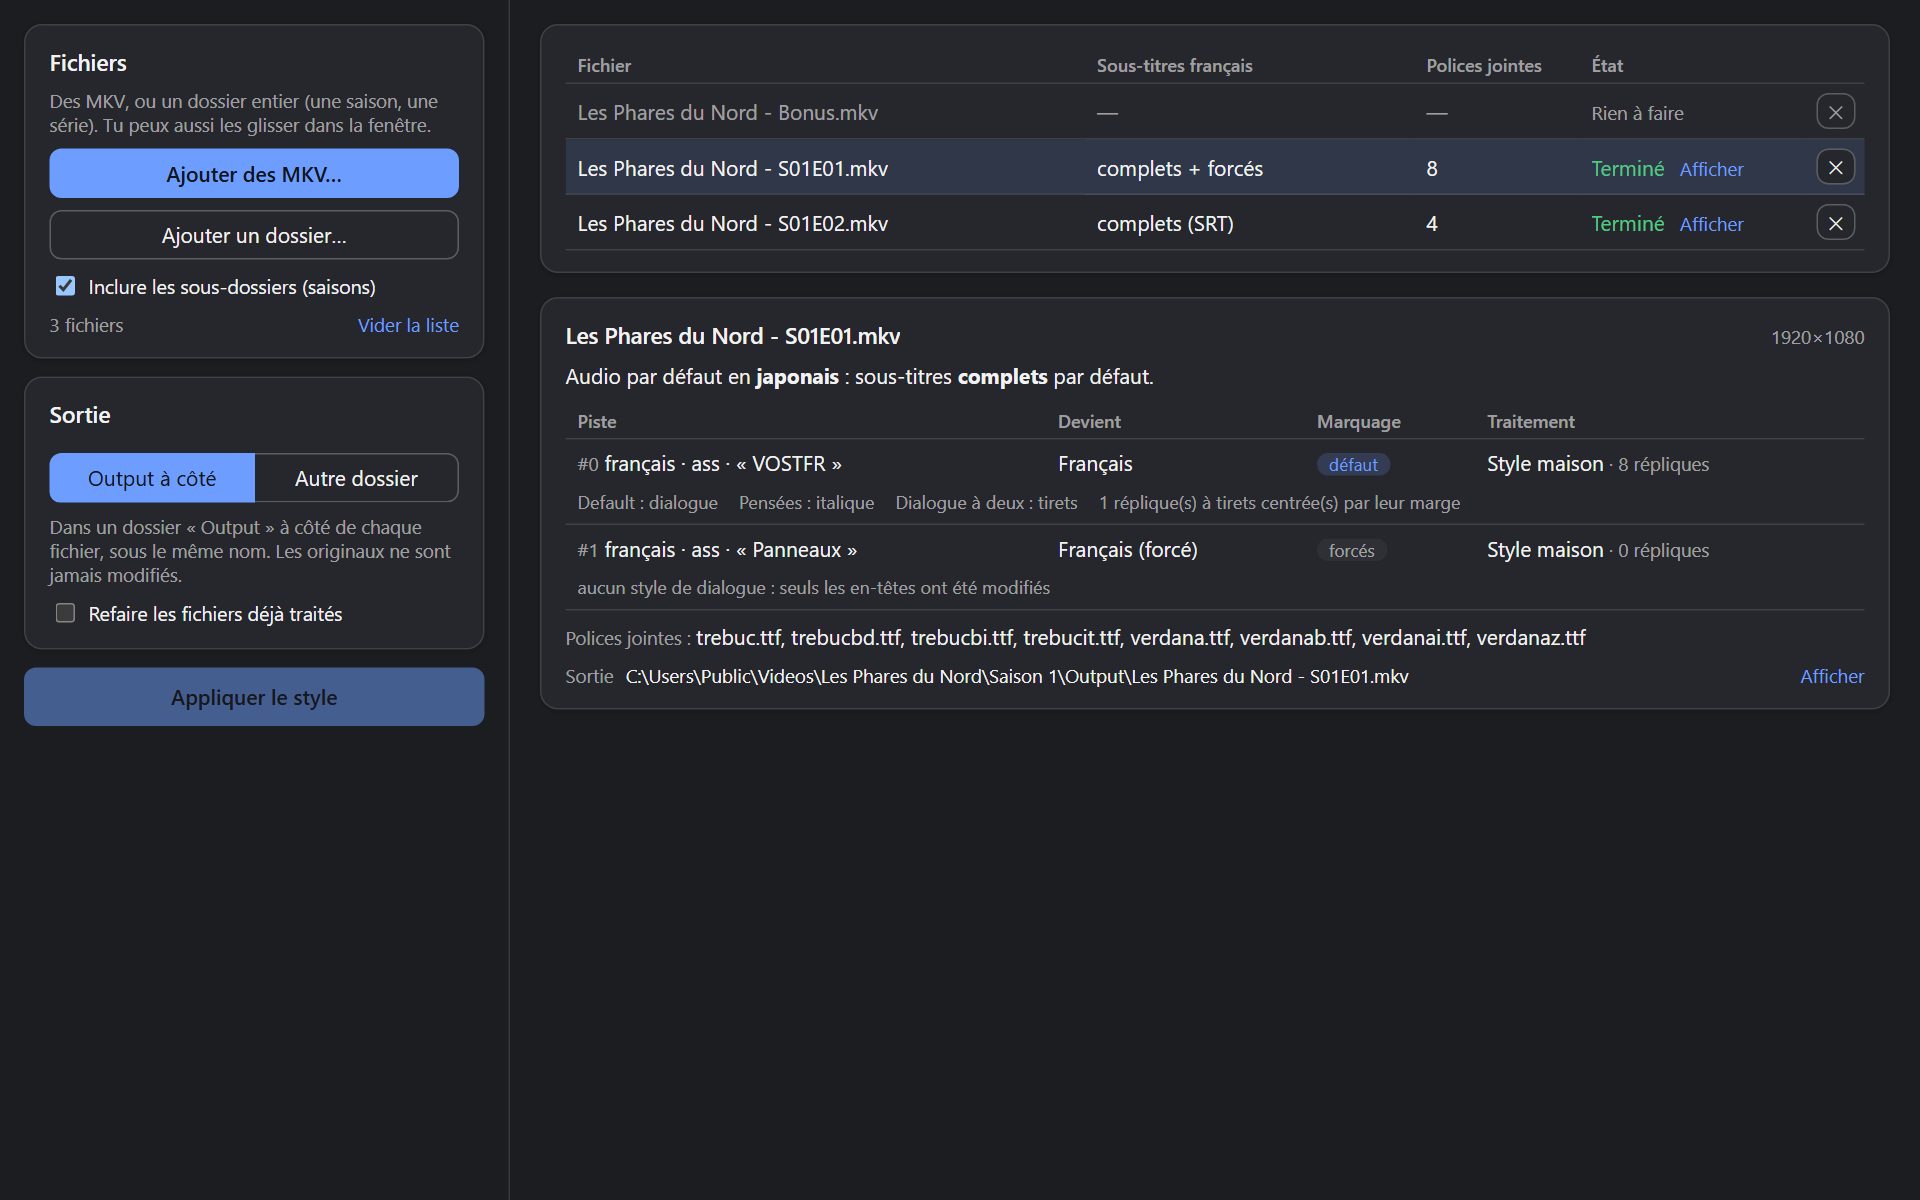
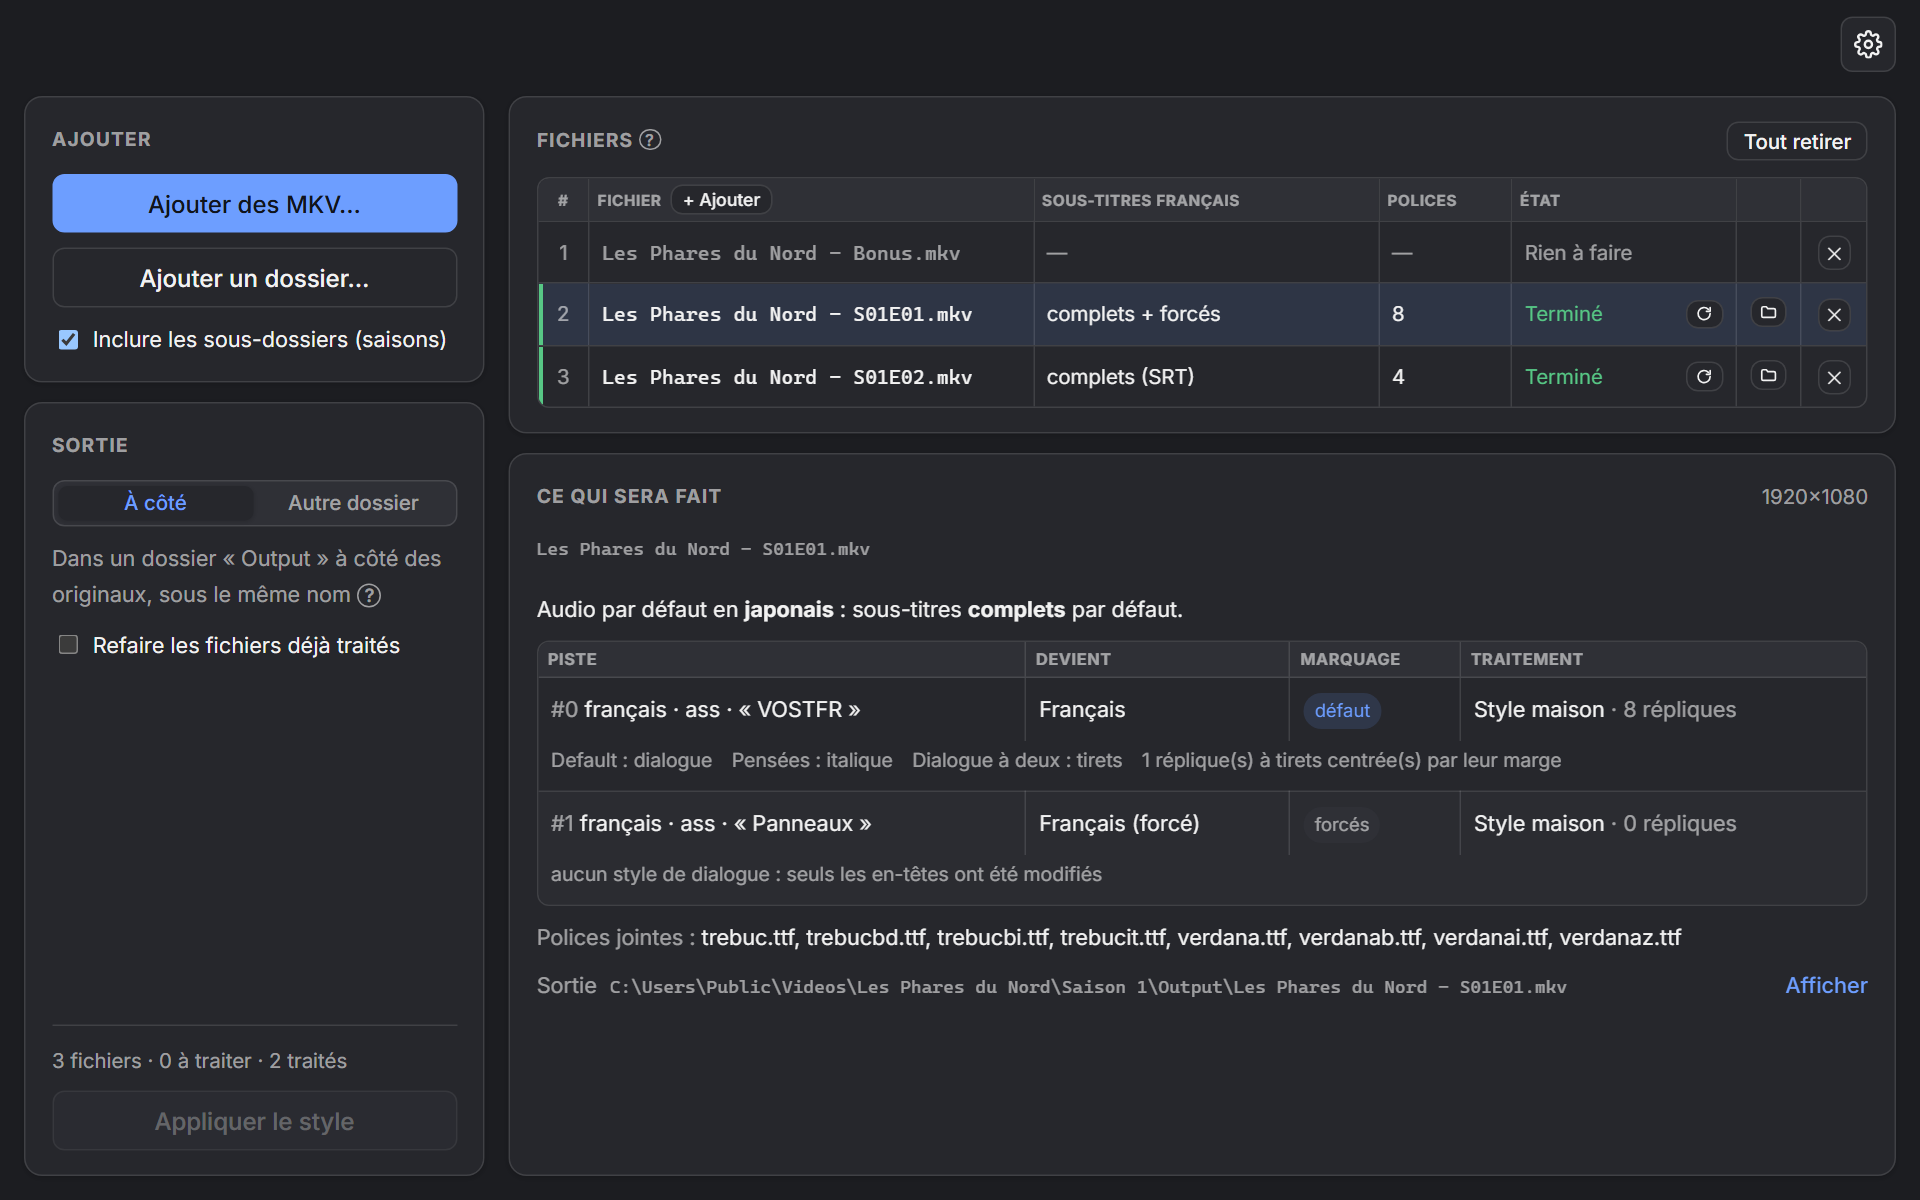
docs: the user guide in the new interface's words (Ajouter panel, À côté / Autre dossier, row bars and buttons, Options, Ce qui sera fait), the READMEs' drag-and-drop/theme line, screenshots of the new interface from the demo series

diff --git a/docs/guide.fr.md b/docs/guide.fr.md
@@ -25,19 +25,25 @@ Ce guide explique comment utiliser Bobine Style et ce qu'il fait exactement à u
 
 ## Traiter des fichiers
 
-1. **Ajoute des fichiers** (*Fichiers*) : *Ajouter des MKV…* pour des fichiers, *Ajouter un dossier…* pour un dossier, ou glisse-les sur la fenêtre. Avec *Inclure les sous-dossiers (saisons)* coché, le dossier d'une série apporte toutes ses saisons. Les dossiers `Output` et les fichiers inachevés ne sont jamais repris.
+1. **Ajoute des fichiers** (panneau *Ajouter*, à gauche) : *Ajouter des MKV…* pour des fichiers, *Ajouter un dossier…* pour un dossier, *+ Ajouter* en tête de la liste, ou glisse-les sur la fenêtre (la liste vide est une zone de dépôt). Avec *Inclure les sous-dossiers (saisons)* coché, le dossier d'une série apporte toutes ses saisons. Les dossiers `Output` et les fichiers inachevés ne sont jamais repris.
 2. **Choisis où vont les résultats** (*Sortie*) :
-   - *Output à côté* : un dossier `Output` à côté de chaque fichier, sous le même nom ;
-   - *Autre dossier* : un seul dossier pour tout (deux épisodes de même nom venant de saisons différentes vont dans le sous-dossier de leur saison).
+   - *À côté* : un dossier `Output` à côté de chaque fichier, sous le même nom ;
+   - *Autre dossier* : un seul dossier pour tout, choisi à ce moment-là (*Changer…* pour en prendre un autre) ; deux épisodes de même nom venant de saisons différentes vont dans le sous-dossier de leur saison.
 
    *Refaire les fichiers déjà traités* retraite les fichiers dont le résultat existe déjà ; sinon ils sont marqués *Déjà traité* et sautés : une série interrompue se relance simplement.
-3. **Applique** (*Appliquer le style*, avec le nombre de fichiers à traiter) : deux fichiers à la fois, chacun avec sa barre de progression. *Annuler* arrête : le fichier en cours d'écriture est supprimé, les originaux ne sont de toute façon jamais touchés.
+3. **Applique** (*Appliquer le style*, en bas à gauche, avec le nombre de fichiers à traiter) : deux fichiers à la fois, chacun avec sa barre de progression. *Annuler l'export* arrête : le fichier en cours d'écriture est supprimé, les originaux ne sont de toute façon jamais touchés.
 
-États dans la liste : *Lecture…* (lecture des pistes), *Prêt*, *Rien à faire* (pas de sous-titres français), *Illisible*, *En attente*, *Terminé* avec *Afficher* pour ouvrir son dossier, *Échec* (survole pour la raison), *Annulé*.
+Chaque ligne de la liste a une barre à sa gauche qui dit où elle en est : bleue pendant le traitement, bleu pâle en attente ou en lecture, vert pâle prête, verte terminée (ou déjà traitée), rouge en échec. Son état en toutes lettres : *Lecture…*, *Prêt*, *Déjà traité*, *Rien à faire* (pas de sous-titres français), *Illisible*, *En attente*, *Terminé*, *Échec* (survole pour la raison), *Annulé*. À droite, ses boutons :
+
+- ↻ *Refaire ce fichier* : le retraite seul, même s'il est déjà fait ;
+- 📁 : ouvre le dossier du fichier écrit ;
+- ✕ : le retire de la liste (*Tout retirer* vide la liste entière).
+
+En haut à droite, ⚙ *Options* : le thème (*Système*, *Clair* ou *Sombre*) et la vérification des mises à jour au démarrage.
 
 ## Lire le détail d'un fichier
 
-Clique sur un fichier pour voir, sous la liste :
+Clique sur un fichier pour voir, sous la liste, dans *Ce qui sera fait* :
 
 - **L'audio par défaut** et la piste de sous-titres qui en découle (voir [plus bas](#noms-des-pistes-et-piste-par-défaut)).
 - **Chaque piste de sous-titres** : ce qu'elle est (langue, format, titre), ce qu'elle devient (*Devient*), son marquage (*défaut*, *forcés*) et son traitement :

diff --git a/docs/guide.md b/docs/guide.md
@@ -25,19 +25,25 @@ This guide explains how to use Bobine Style and exactly what it does to a file. 
 
 ## Processing files
 
-1. **Add files** (*Fichiers*): *Ajouter des MKV…* for files, *Ajouter un dossier…* for a folder, or drop either on the window. With *Inclure les sous-dossiers (saisons)* ticked, a series folder brings all its seasons. `Output` folders and unfinished files are never picked up.
+1. **Add files** (*Ajouter* panel, on the left): *Ajouter des MKV…* for files, *Ajouter un dossier…* for a folder, *+ Ajouter* at the top of the list, or drop either on the window (the empty list is a drop zone). With *Inclure les sous-dossiers (saisons)* ticked, a series folder brings all its seasons. `Output` folders and unfinished files are never picked up.
 2. **Choose where the results go** (*Sortie*):
-   - *Output à côté*: an `Output` folder next to each file, under the same name;
-   - *Autre dossier*: one folder for everything (two episodes with the same name from different seasons go into their season's subfolder).
+   - *À côté* (next to them): an `Output` folder next to each file, under the same name;
+   - *Autre dossier* (another folder): one folder for everything, picked then (*Changer…* to pick another); two episodes with the same name from different seasons go into their season's subfolder.
 
    *Refaire les fichiers déjà traités* processes again files whose result already exists; otherwise they're marked *Déjà traité* (already done) and skipped, so an interrupted series can simply be started again.
-3. **Apply** (*Appliquer le style*, with the number of files to process): two files at a time, each with its progress bar. *Annuler* stops: the file being written is deleted, the originals are untouched either way.
+3. **Apply** (*Appliquer le style*, bottom left, with the number of files to process): two files at a time, each with its progress bar. *Annuler l'export* stops: the file being written is deleted, the originals are untouched either way.
 
-States in the list: *Lecture…* (reading the tracks), *Prêt* (ready), *Rien à faire* (no French subtitles), *Illisible* (unreadable file), *En attente* (queued), *Terminé* with *Afficher* to open its folder, *Échec* (hover for the reason), *Annulé*.
+Each row of the list has a bar on its left saying where it stands: blue while processed, pale blue queued or being read, pale green ready, green done (or already done), red failed. Its state in words: *Lecture…* (reading the tracks), *Prêt* (ready), *Déjà traité* (already done), *Rien à faire* (no French subtitles), *Illisible* (unreadable file), *En attente* (queued), *Terminé* (done), *Échec* (failed: hover for the reason), *Annulé* (cancelled). On its right, its buttons:
+
+- ↻ *Refaire ce fichier*: processes it again on its own, even if it's done;
+- 📁: opens the written file's folder;
+- ✕: takes it off the list (*Tout retirer* empties the whole list).
+
+Top right, ⚙ *Options*: the theme (*Système*, *Clair* or *Sombre*: system, light or dark) and the update check at startup.
 
 ## Reading a file's details
 
-Click a file to see, under the list:
+Click a file to see, under the list, in *Ce qui sera fait* (what will be done):
 
 - **The default audio** and the subtitle track that follows from it (see [below](#track-names-and-the-default-track)).
 - **Each subtitle track**: what it is now (language, format, title), what it becomes (*Devient*), its flags (*défaut*, *forcés*) and its treatment (*Traitement*):

diff --git a/README.fr.md b/README.fr.md
@@ -47,6 +47,7 @@ Il fait partie de **Bobine**, une petite suite d'outils pour vidéothèque, avec
 - 📝 **Les SRT aussi** : les SRT français sont convertis en ASS dans le même style (italiques, `{\an8}`, répliques à tirets…).
 - 🗂 **Une série entière en une passe** : glisse un dossier, ses saisons sont incluses ; les fichiers déjà faits sont sautés.
 - 🛡 **Rien de perdu** : vidéo, audio, sous-titres des autres langues et chapitres sont copiés tels quels, rien n'est réencodé, le fichier d'origine n'est jamais modifié, et chaque sortie est vérifiée avant d'être gardée.
+- 🖱 **Glisser-déposer** de fichiers ou de dossiers entiers, thème clair ou sombre (ou celui du système), mises à jour automatiques.
 
 ## Installation
 

diff --git a/README.md b/README.md
@@ -47,6 +47,7 @@ It's part of **Bobine**, a small suite of tools for a video library, next to [Bo
 - 📝 **SRT too**: French SRT files are converted to ASS in the same style (italics, `{\an8}`, dash lines…).
 - 🗂 **A whole series in one pass**: drop a folder, its seasons are included; files already done are skipped.
 - 🛡 **Nothing lost**: video, audio, other languages' subtitles and chapters are copied untouched, nothing is re-encoded, the original file is never changed, and each output is checked before it's kept.
+- 🖱 **Drag and drop** files or whole folders, light or dark theme (or the system's), automatic updates.
 
 ## Install
 
